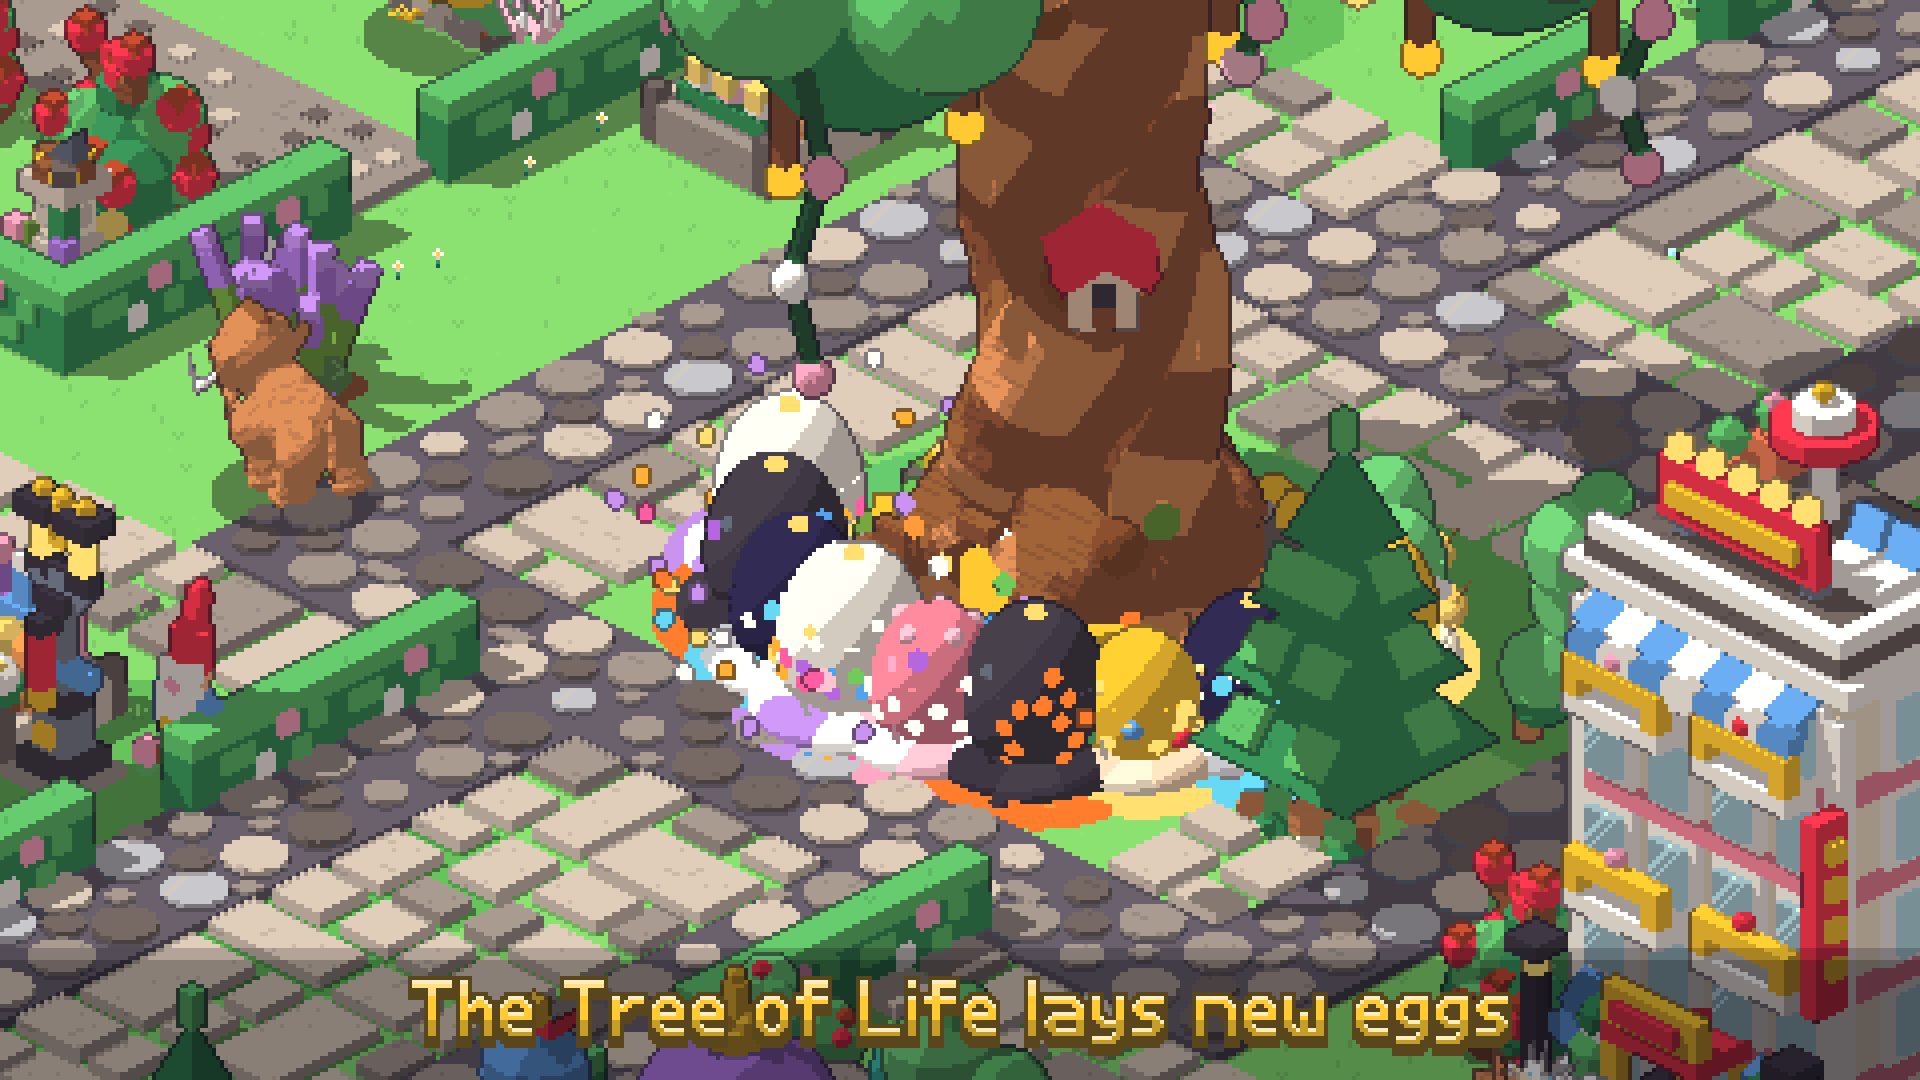
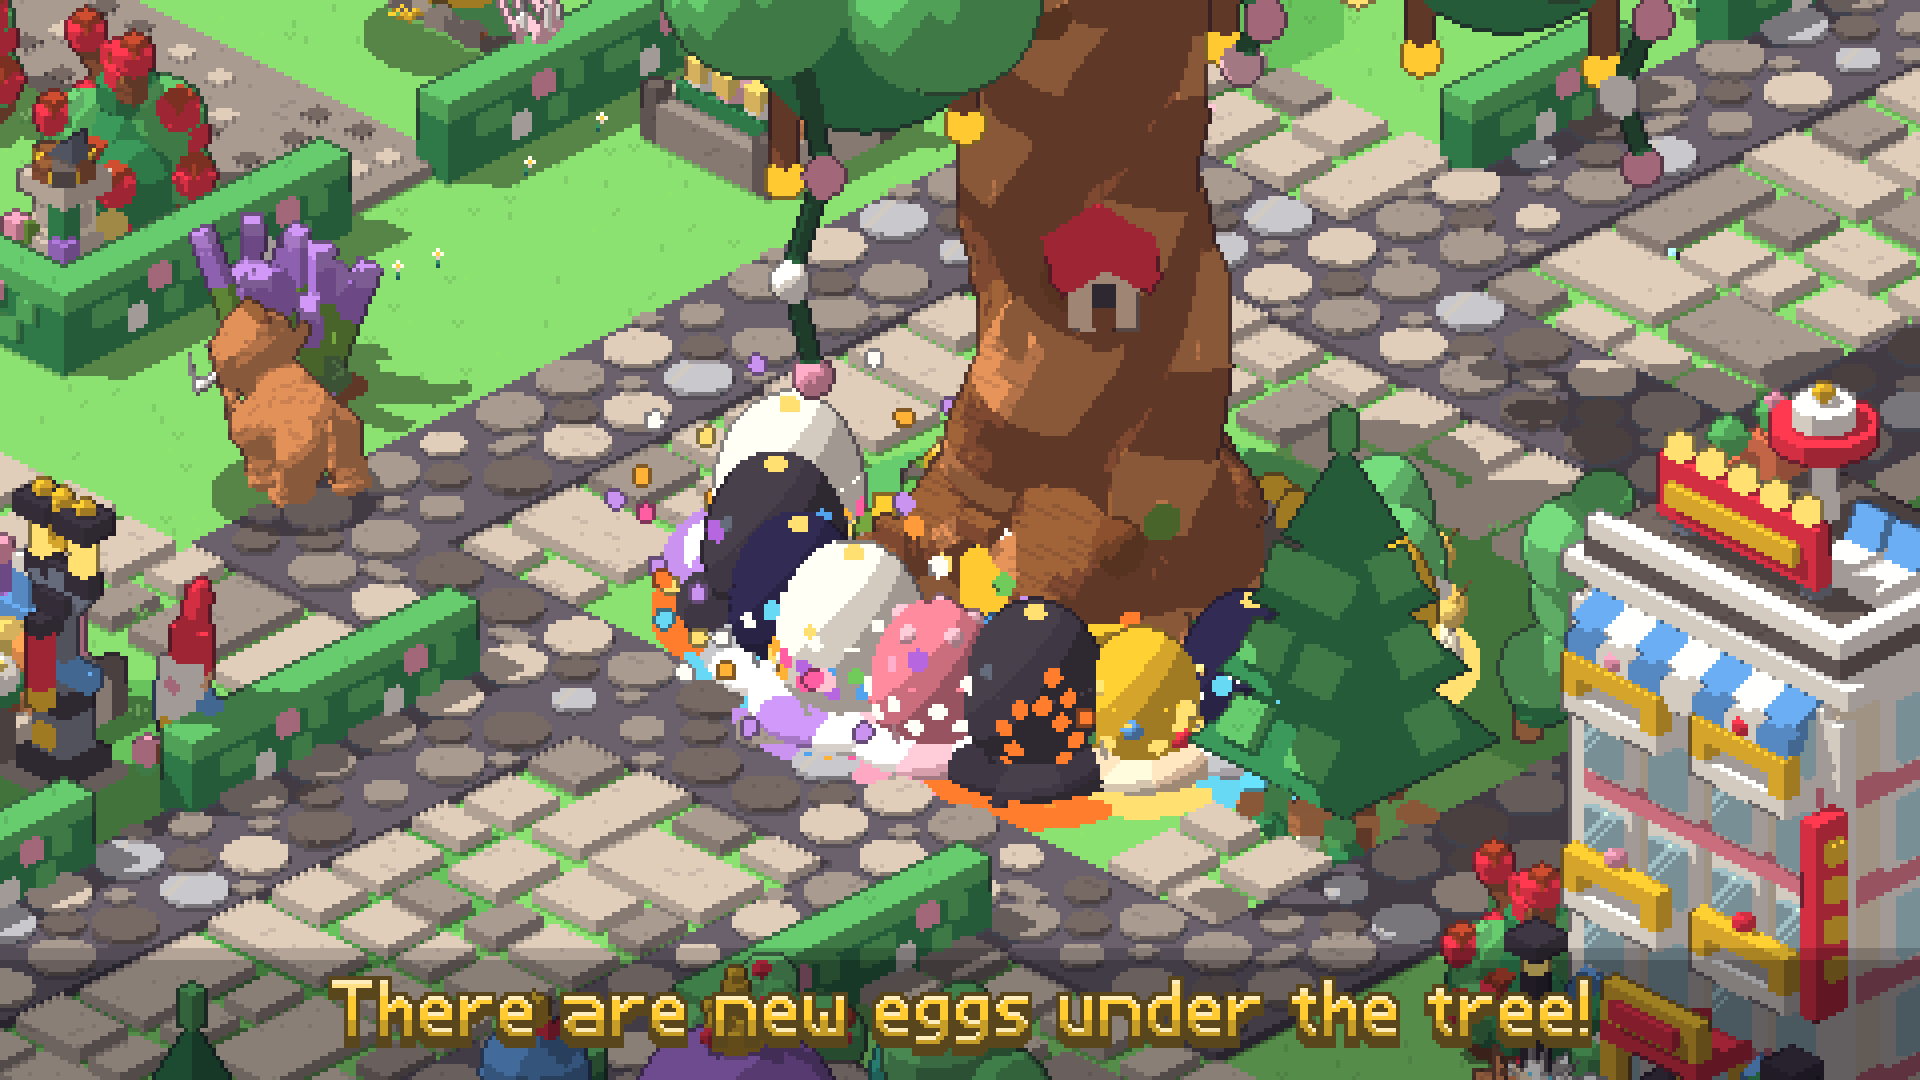
Say "There are new eggs under the tree!" wherever the tree laid eggs
The request: "For all mentions of the tree "laying" eggs, just say "There are new eggs
under the tree!"". The new-eggs notice (a fresh lot and an expansion's extra eggs alike)
and the egg thumbnail's caption say it as is; the hatch tip keeps its second sentence
("There are new eggs under the tree! Tap it to hatch one."); the loading card's tip, the
New Eggs product and the Tree of Life's card say it in their own place's words without
the laying. All nine languages; the replaced lines out of the tables.

Claude-Session: https://claude.ai/code/session_01MB1RUFKET2ZiukLybtpPJi

Changed region(s): [[0.1562, 0.8861, 0.8438, 0.9778], [0.3438, 0.5194, 0.375, 0.55]]

diff --git a/tools/preview/game_thumbs.py b/tools/preview/game_thumbs.py
@@ -275,7 +275,7 @@ def thumb_hatch(sc, pics):
 
 def thumb_eggs(sc, pics):
     cv = sc["tree_near"]
-    thumb_caption(cv, "The Tree of Life lays new eggs", top=False)
+    thumb_caption(cv, "There are new eggs under the tree!", top=False)
     return cv
 
 

diff --git a/docs/GAME_DESIGN.md b/docs/GAME_DESIGN.md
@@ -1673,7 +1673,7 @@ When the island grows into a new stage, the tree is built again at it.
   of play and an eternal one about every fifteen.
 
 - **A bigger island at once** (`Tree.fill`): growing the island tops the lot up to the new count straight away, the
-  new eggs rolled at the new odds ("The tree laid 1 more egg."); the eggs already there stay.
+  new eggs rolled at the new odds ("There are new eggs under the tree!"); the eggs already there stay.
 - **The price** (`Tree.cost`): `EggPrice` by rarity (8, 36, 160, 800, 4,000 shells, 24,000 a mythic egg, 160,000 a
   celestial one, and since 2026-11-20 1,000,000 an ancient one and 6,000,000 an eternal one, the same steps up as
   mythic to celestial; on Everdrift an eternal egg costs 12 billion, about half an hour of a full island's shells)
@@ -1804,8 +1804,10 @@ When the island grows into a new stage, the tree is built again at it.
   the last row): each with its egg, its rarity's name in its colour and its price (green when you have the shells). A
   tap anywhere on the card opens the Tree panel; the card buys nothing itself. On a phone no egg rows (2026-11-14: "for
   mobile, remove the egg list in the tree tab"): the name, Open and the time to the next eggs; "No eggs right now" on a
-  desktop once all are hatched. A new lot gets a notice ("The Tree of Life has new
-  eggs!": the request of 2026-11-14, "the "Tree of life laid new eggs" should be "The tree of life has new eggs!""), and one with an epic or legendary egg in it is news: "An epic egg is waiting under the tree." in its
+  desktop once all are hatched. A new lot gets a notice ("There are new eggs under the tree!", the same words for the
+  extra eggs an expansion brings: the request of 2026-11-21, "For all mentions of the tree "laying" eggs, just say
+  "There are new eggs under the tree!"", after the one of 2026-11-14, "the "Tree of life laid new eggs" should be "The
+  tree of life has new eggs!""), and one with an epic or legendary egg in it is news: "An epic egg is waiting under the tree." in its
   rarity's colour with a bell-tree run and sparkles over the card. The card steps aside in Build mode and while the
   Tree panel is open.
 - **The Tree panel** (Open on the card, a tap on the tree, Eggs in the Driftlings panel, a quest's Go): on the left
@@ -2700,7 +2702,7 @@ The tips since then, in the user's own words (`Plot.TIP_HUT` .. `TIP_LAST`):
 
 1. "Make a place for your driftlings to live in!": a hut. While Build mode is shut the menu bar's Build button pulses
    yellow with a shine across it; Build mode opens on the Huts tab with the hut's card lit up (§4.5).
-2. "The tree laid eggs. Tap it to hatch one.": an egg hatched. Build mode closes itself a moment after the hut goes
+2. "There are new eggs under the tree! Tap it to hatch one.": an egg hatched. Build mode closes itself a moment after the hut goes
    down, and an arrow bobs over your tree, or with the tree off the screen points the way to it from the screen's edge
    (the request of 2026-11-14, "auto close the build tab when going to the hatching step and point towards the tree of
    life for the player to click"). What hatches moves into the hut and rests there.
@@ -3039,7 +3041,7 @@ reason.
   pixel font's big face, a status that follows the real loading ("Waking up your island", "Finding your island",
   "Drawing your island", dots counting after it), a progress bar in a frame of planks, and at the foot a tip on an
   ink plate, a new one every few seconds ("Shells pay for eggs and buildings.", "Decor adds charm. Charm brings more shells.", "Decor
-  gives charm for each tile it covers.", "The tree lays new eggs every few minutes.", "Rare driftlings work much
+  gives charm for each tile it covers.", "There are new eggs under the tree every few minutes.", "Rare driftlings work much
   faster.", "Huts full? Swap a weak driftling for a better one.", "Blue-spotted eggs hatch rare ones. Save shells
   for them.", "A bigger island gets more eggs, and better ones."). Everything is laid out from the screen's size each time it changes (the old
   curtain took its size once, so on a window still settling its words sat left of the middle). Roblox's touch

diff --git a/docs/ARCHITECTURE.md b/docs/ARCHITECTURE.md
@@ -2136,7 +2136,7 @@ over the tray and over the Free Decor tab on its corner while that shows, `tipsL
 the day, what hatched; at least 140 wide, and as wide as its big-font title after the icon (`textWidth(title, "big")`
 + 28: "An egg hatched!" is 142) and each line; over a panel or in Build mode a notice instead; while it shows the
 notices stack below it, `UIKit.setNoticeTop`); the status lines hide under a panel and in Build mode, a line's icon
-is made again only when it changes, and the top chips' words (`topChip`) are put back after the HUD rebuilds; Fx "eggs" (`onEggs`): "The Tree of Life has new eggs!" (with `more`, "The tree laid 2 more eggs.") and the `rare`
+is made again only when it changes, and the top chips' words (`topChip`) are put back after the HUD rebuilds; Fx "eggs" (`onEggs`): "There are new eggs under the tree!" (a fresh lot or an expansion's extra eggs alike) and the `rare`
 sound, or, with an epic or legendary egg among them (or `turned`, the quest's egg, of any rarity: "A rare egg
 waits at the tree."), "An epic egg waits at the tree." in its rarity's colour, the `grow` sound and a
 burst over the `TreeCard`. Shells coming in rise from their chip
@@ -2198,7 +2198,7 @@ tree") with `EggCount` ("6 eggs"), the `List`: first the bag's eggs (GAME_DESIGN
 `BagHatch_<id>` sending `EggView.hatchBag`), then a row each of `EggView.best(v, #v.clutch)` (every egg, the rarest first), `Egg_<id>`: the `egg_<rarity>`
 sprite, "Rare egg" in its colour, "Hatches a rare creature" (`Hatches`; "an" before uncommon and epic) and `PanelHatch_<id>` (its cost
 and `PriceIcon`, sending `EggView.hatch`, or with fewer shells than its cost `StoreUI.eggInstead(r)`), or "No eggs
-left. The tree lays more soon."; under them `StoreUI.eggRows`:
+left. More soon."; under them `StoreUI.eggRows`:
 `BuyHead` ("Buy an egg") and a row an egg product from Uncommon up, `BuyEgg_<key>` (its `egg_<r>`, "Rare Egg" in its
 colour, "Free to hatch" and `Buy_<key>`, its Robux, `StoreUI.buy`); with `{ hatch = id }`, every
 hut full, the swap picker: a hint naming the egg's rarity and cost ("Huts full. Pick one to sell for the rare egg
